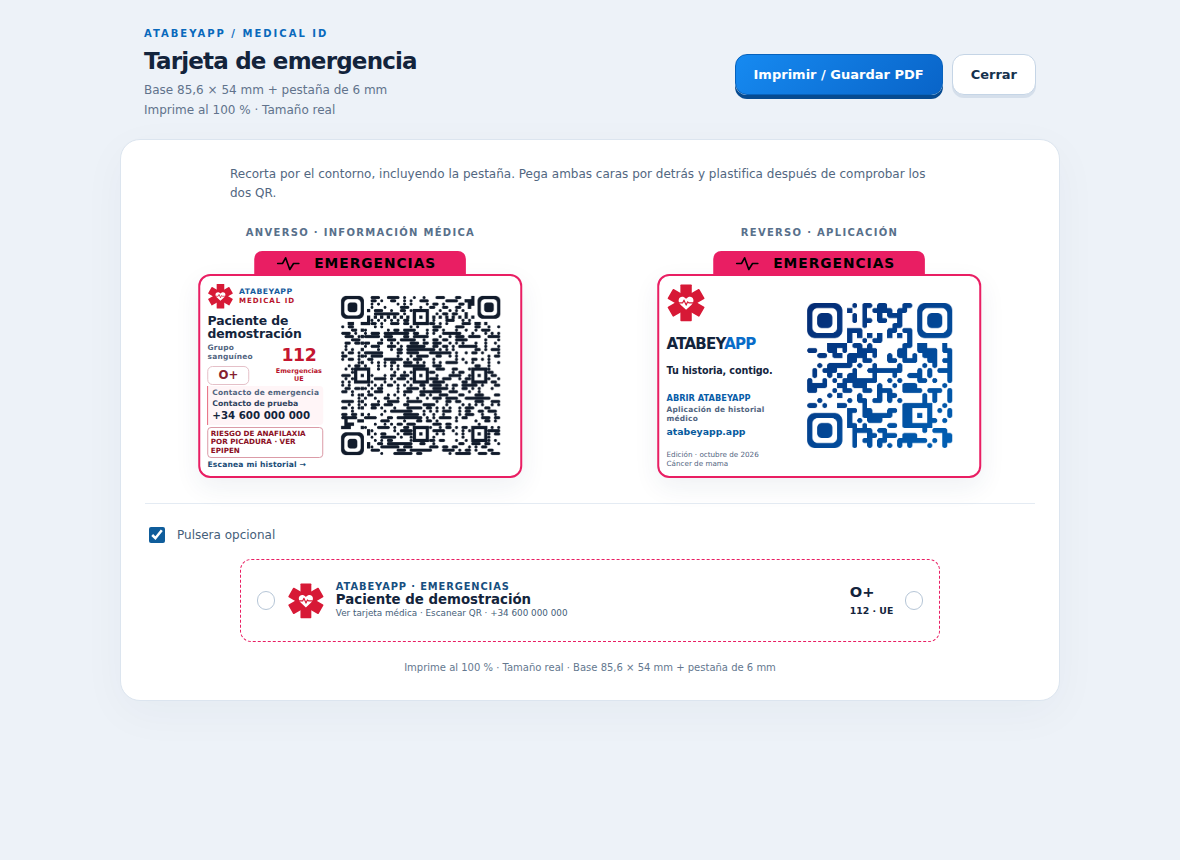
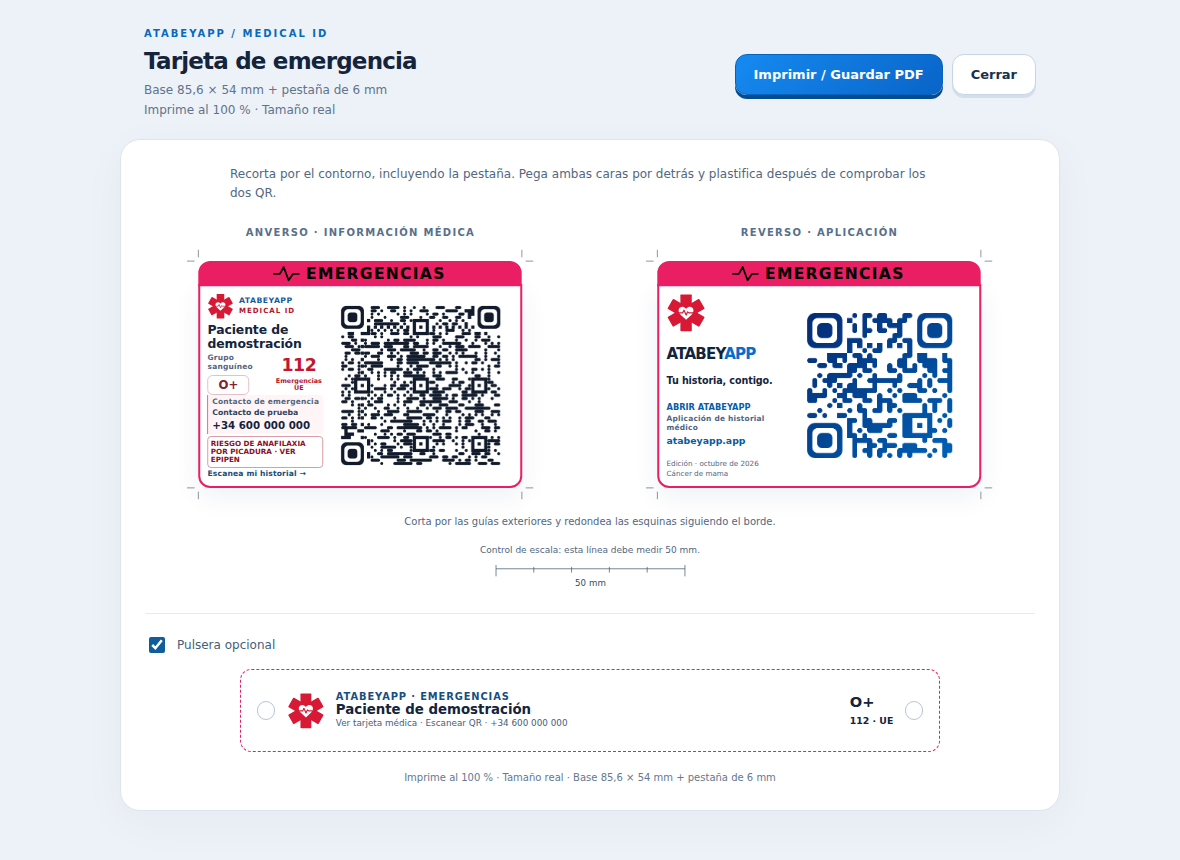
feat: ampliar cabecera y añadir guias de corte a la tarjeta
La franja de emergencias ocupa los 85,6 mm de ancho, con 6 mm de saliente. Añade marcas exteriores de corte y control de escala de 50 mm. Mantiene ambos QR de 49 mm, colores mensuales, simbolos rojos, datos y controles de cuenta. Cache instalada v27.

Validado con 65 pruebas, lectura del PDF a 300 ppp, dieciseis marcas de corte visibles, once idiomas, doce colores, cambios de cuenta durante impresion y generacion instalada sin red. Solo datos ficticios.

diff --git a/js/emergency-card.js b/js/emergency-card.js
@@ -31,8 +31,23 @@
   const medicalBadge = '<svg class="medical-badge" viewBox="0 0 40 40" aria-hidden="true"><g fill="#d71936"><rect class="badge-field" x="14.25" y="1.5" width="11.5" height="37" rx=".8"/><rect x="14.25" y="1.5" width="11.5" height="37" rx=".8" transform="rotate(60 20 20)"/><rect x="14.25" y="1.5" width="11.5" height="37" rx=".8" transform="rotate(120 20 20)"/></g><path d="M20 16c-4.8-5.6-10.8.8-5.3 6.1L20 27l5.3-4.9c5.5-5.3-.5-11.7-5.3-6.1Z" fill="#fff"/><path d="M13.2 20h3.4l1.3-2.7 2.2 5 1.5-3.3 1.2 1h4" fill="none" stroke="#d71936" stroke-width="1.2" stroke-linecap="round" stroke-linejoin="round"/></svg>';
 
   function tab(t) {
-    return `<svg class="card-tab" viewBox="0 0 56 6.4" aria-label="EMERGENCIAS"><path d="M0 6.4V2.1A2.1 2.1 0 0 1 2.1 0h51.8A2.1 2.1 0 0 1 56 2.1v4.3Z" fill="${t.color}"/><path d="M6.2 3.3h1.3l.8-1.5 1.1 3.1 1-1.6h1.4" fill="none" stroke="${t.ink}" stroke-width=".43" stroke-linecap="round" stroke-linejoin="round"/><text x="32" y="4.42" text-anchor="middle" fill="${t.ink}" font-family="Arial,Helvetica,sans-serif" font-weight="900" font-size="3.65" letter-spacing=".26">EMERGENCIAS</text></svg>`;
+    return `<svg class="card-tab" viewBox="0 0 85.6 6.65" aria-label="EMERGENCIAS"><path d="M0 6.65V3.18A3.18 3.18 0 0 1 3.18 0h79.24a3.18 3.18 0 0 1 3.18 3.18v3.47Z" fill="${t.color}"/><path d="M20 3.4h1.6l1-1.8 1.3 3.5 1.2-1.7h1.5" fill="none" stroke="${t.ink}" stroke-width=".47" stroke-linecap="round" stroke-linejoin="round"/><text x="47" y="4.65" text-anchor="middle" fill="${t.ink}" font-family="Arial,Helvetica,sans-serif" font-weight="900" font-size="4.1" letter-spacing=".35">EMERGENCIAS</text></svg>`;
   }
+  // Registration marks stay 1 mm away from the final card edge; only the scrap carries ink.
+  const cutMarks = '<svg class="cut-marks" viewBox="0 0 93.6 68" aria-hidden="true"><path d="M1 4H3M90.6 4H92.6M1 64H3M90.6 64H92.6M4 1V3M89.6 1V3M4 65V67M89.6 65V67" fill="none" stroke="#596777" stroke-width=".18"/></svg>';
+  const printHints = {
+    es:['Corta por las guías exteriores y redondea las esquinas siguiendo el borde.','Control de escala: esta línea debe medir 50 mm.'],
+    en:['Cut at the outer crop marks, then round the corners along the outline.','Scale check: this line must measure 50 mm.'],
+    fr:['Découpez aux repères extérieurs, puis arrondissez les angles en suivant le contour.','Contrôle d’échelle : cette ligne doit mesurer 50 mm.'],
+    de:['An den äußeren Schnittmarken schneiden und die Ecken entlang des Randes abrunden.','Maßstab prüfen: Diese Linie muss 50 mm lang sein.'],
+    pt:['Corte pelas marcas exteriores e arredonde os cantos seguindo o contorno.','Verificação de escala: esta linha deve medir 50 mm.'],
+    eu:['Ebaki kanpoko markei jarraituz eta biribildu izkinak ertzari jarraituz.','Eskala egiaztatzea: lerro honek 50 mm neurtu behar ditu.'],
+    hi:['बाहरी कटाई चिह्नों के अनुसार काटें और किनारे के साथ कोनों को गोल करें।','पैमाना जाँचें: यह रेखा 50 मिमी लंबी होनी चाहिए।'],
+    zh:['沿外侧裁切标记剪裁，并沿边缘修圆四角。','比例检查：此线应长 50 毫米。'],
+    ru:['Вырежьте по внешним меткам и скруглите углы по контуру.','Проверка масштаба: длина этой линии должна составлять 50 мм.'],
+    ja:['外側の裁断マークに沿って切り、輪郭に沿って角を丸くしてください。','縮尺確認：この線の長さは 50 mm です。'],
+    ar:['قصّ حسب علامات القص الخارجية ودوّر الزوايا باتباع الحواف.','للتحقق من المقياس: يجب أن يكون طول هذا الخط 50 مم.']
+  };
   async function imageFor(draw,url,style,blue) {
     const target=document.createElement('div');
     draw(target,{text:url,visualStyle:style,width:960,height:960,colorDark:'#111b2b',colorLight:'#ffffff',correctLevel:QRCode.CorrectLevel.H});
@@ -54,14 +69,14 @@
     ctx.putImageData(pixels,0,0);return canvas.toDataURL('image/png');
   }
   function documentHTML({profile,patientImage,appImage,date,language,risk}) {
-    const lang=words[language]?language:'es',w=words[lang],t=theme(date),rtl=lang==='ar',name=[profile.nombre,profile.apellidos].filter(Boolean).join(' '),blood=profile.sangre||'';
+    const lang=words[language]?language:'es',w=words[lang],hints=printHints[lang],t=theme(date),rtl=lang==='ar',name=[profile.nombre,profile.apellidos].filter(Boolean).join(' '),blood=profile.sangre||'';
     const phone=[profile.ec1_phone_prefix,profile.ec1_phone_num].filter(Boolean).join(' ');
     const edition=new Intl.DateTimeFormat(lang,{month:'long',year:'numeric'}).format(date);
     return `<!doctype html><html lang="${lang}" dir="${rtl?'rtl':'ltr'}"><head><meta charset="utf-8"><meta name="viewport" content="width=device-width,initial-scale=1"><meta name="referrer" content="no-referrer"><title>ATABEYAPP · ${esc(w[0])} · ${esc(name)}</title><style>
-*{box-sizing:border-box}body{margin:0;color:#13243c;background:#edf2f8;font-family:Arial,Helvetica,system-ui,sans-serif}button,input{font:inherit}.toolbar{display:flex;justify-content:space-between;gap:16px;align-items:center;flex-wrap:wrap;max-width:940px;margin:0 auto;padding:28px 24px 18px}.toolbar h1{font-size:23px;letter-spacing:-.8px;margin:0 0 6px;font-weight:850}.eyebrow{font-size:10px;font-weight:800;letter-spacing:2px;color:#0969bc;margin-bottom:9px}.toolbar p{font-size:12px;color:#61738c;margin:0;line-height:1.7}.actions{display:flex;gap:9px;flex-wrap:wrap}.actions button{border:1px solid #c5d5e6;background:#fff;color:#15314d;border-radius:12px;padding:12px 18px;font-size:13px;font-weight:750;cursor:pointer;box-shadow:0 3px 0 #d5dfeb}.actions .primary{background:linear-gradient(135deg,#168af1,#0964c8);color:#fff;border-color:#0762bc;box-shadow:0 4px 0 #064b91}.actions button:active{transform:translateY(2px);box-shadow:none}.actions button:disabled{opacity:.5;cursor:wait}.sheet{max-width:940px;margin:0 auto 36px;padding:25px 24px;background:#fff;border:1px solid #dce5ef;border-radius:20px;box-shadow:0 12px 45px #1436560a}.sheet-note{font-size:12px;line-height:1.6;max-width:720px;margin:0 auto 24px;color:#526781}.faces{display:grid;grid-template-columns:repeat(2,minmax(0,1fr));gap:22px 28px}.face-block{min-width:0}.face-label{font-size:10px;letter-spacing:1.3px;font-weight:800;text-transform:uppercase;color:#58708b;margin:0 0 13px;text-align:center}.face-host{position:relative;max-width:100%;margin:0 auto;height:60mm;width:85.6mm}.medical-card{position:absolute;left:50%;top:0;transform:translateX(-50%) scale(var(--card-scale,1));transform-origin:top center;width:85.6mm;height:60mm;direction:ltr;color:#13243c}.card-tab{position:absolute;top:0;left:14.8mm;width:56mm;height:6.4mm;z-index:2;overflow:visible}.card-body{position:absolute;top:6mm;left:0;width:85.6mm;height:54mm;border:.65mm solid ${t.color};border-radius:3.18mm;background:#fff;box-shadow:0 9px 26px #1a3e6312;display:grid;grid-template-columns:minmax(0,1fr) 49mm;gap:1.3mm;padding:1.8mm;align-items:center}.card-details{display:flex;flex-direction:column;justify-content:space-between;height:49mm;min-width:0;direction:${rtl?'rtl':'ltr'}}.identity-brand{display:flex;align-items:center;gap:1.3mm;font-size:5.8pt;letter-spacing:.5px;font-weight:850;color:#155a9c;direction:ltr}.medical-badge{display:block;flex-shrink:0;width:7mm;height:7mm}.card-details>*{flex-shrink:0}.identity-brand span{line-height:1.25}.identity-brand small{font-size:5.3pt;letter-spacing:1px;color:#b7132b}.clinical-summary{display:flex;align-items:center;justify-content:space-between;gap:1mm}.contact-panel{border-inline-start:.5mm solid #d71936;border-radius:0 1mm 1mm 0;background:#fff5f7;padding:.8mm 1mm;min-width:0}.contact-name{white-space:nowrap;overflow:hidden;text-overflow:ellipsis;font-size:5.8pt;font-weight:700;line-height:1.1;color:#31445e;overflow-wrap:anywhere;margin-bottom:.5mm}.patient-name{font-size:10.1pt;line-height:1.07;font-weight:850;letter-spacing:-.1px;overflow-wrap:anywhere;margin:1mm 0;max-height:17mm}.detail-label{font-size:5.6pt;line-height:1.2;color:#52657f;font-weight:750;letter-spacing:.2px;margin-bottom:.55mm}.blood{display:inline-block;font-size:8.8pt;font-weight:900;line-height:1.1;color:#851f30;border:1px solid #e5c0c8;border-radius:1.4mm;padding:.65mm 1.5mm;min-width:11mm;text-align:center;direction:ltr}.contact-phone{font-size:7.7pt;line-height:1.15;font-weight:850;direction:ltr;unicode-bidi:isolate;overflow-wrap:anywhere}.emergency-call{display:flex;flex-direction:column;align-items:center;gap:.5mm;font-size:4.8pt;color:#b7132b;font-weight:750;line-height:1.15;max-width:13mm;text-align:center}.emergency-call strong{font-size:13pt;letter-spacing:-.5px;color:#c41630;direction:ltr}.medical-symbol{width:49mm;height:49mm;display:block}.qr-column{direction:ltr;text-align:center}.qr-caption{font-size:5.7pt;line-height:1.05;margin-top:.6mm;color:#204d77;font-weight:800;letter-spacing:.15px}.risk{font-size:5.4pt;font-weight:850;line-height:1.15;color:#8b1024;border:1px solid #db9ba7;border-radius:1mm;padding:.6mm;margin-top:.5mm;overflow-wrap:anywhere}.back .card-body{grid-template-columns:minmax(0,1fr) 49mm;gap:.7mm}.back .card-details{justify-content:space-between}.back .medical-badge{width:10.5mm;height:10.5mm}.wordmark{font-size:11.3pt;font-weight:900;letter-spacing:-.8px;line-height:1.1;direction:ltr}.wordmark span{color:#086cc9}.tagline{font-size:7.2pt;line-height:1.2;font-weight:750;letter-spacing:-.1px}.open-app{color:#085da8;font-weight:850;font-size:6.2pt;line-height:1.2;margin-top:1mm}.app-site{font-size:7pt;color:#075b9e;font-weight:800;direction:ltr}.edition{font-size:5.4pt;line-height:1.3;color:#52657f;overflow-wrap:anywhere}.app-symbol{width:49mm;height:49mm;display:block}.band-settings{margin-top:25px;border-top:1px solid #e4ebf3;padding-top:20px;font-size:12px;color:#455e79;display:flex;gap:9px;align-items:center}.band-settings input{accent-color:#147cce;width:16px;height:16px}.band-section{margin-top:13px}.band-host{width:100%;overflow:hidden}.brace{height:22mm;width:185mm;border:.4mm dashed ${t.color};border-radius:3mm;display:flex;gap:3mm;align-items:center;padding:2.5mm 4mm;direction:ltr;margin:0 auto;color:#13243c;transform-origin:top left}.brace .medical-badge{width:10mm;height:10mm}.brace-details{min-width:0;flex:1;direction:${rtl?'rtl':'ltr'}}.brace-title{font-size:7.4pt;font-weight:900;letter-spacing:.9px;color:#174f80}.brace-name{font-size:10pt;line-height:1.2;font-weight:850;overflow-wrap:anywhere}.brace-help{font-size:6.6pt;color:#455e79;line-height:1.3}.brace-meta{font-size:11pt;font-weight:900;white-space:nowrap;direction:ltr}.grommet{border:.3mm solid #b6c6d7;width:5mm;height:5mm;border-radius:50%;flex-shrink:0}.bottom-note{font-size:10px;line-height:1.5;color:#64788f;text-align:center;margin:18px 0 0}.cut-guide{display:none}.muted{color:#6b8099}body[data-card-error]{display:grid;min-height:90vh;place-content:center;padding:28px;text-align:center;background:#edf2f8}body[data-card-error] p{max-width:500px;line-height:1.6}
+*{box-sizing:border-box}body{margin:0;color:#13243c;background:#edf2f8;font-family:Arial,Helvetica,system-ui,sans-serif}button,input{font:inherit}.toolbar{display:flex;justify-content:space-between;gap:16px;align-items:center;flex-wrap:wrap;max-width:940px;margin:0 auto;padding:28px 24px 18px}.toolbar h1{font-size:23px;letter-spacing:-.8px;margin:0 0 6px;font-weight:850}.eyebrow{font-size:10px;font-weight:800;letter-spacing:2px;color:#0969bc;margin-bottom:9px}.toolbar p{font-size:12px;color:#61738c;margin:0;line-height:1.7}.actions{display:flex;gap:9px;flex-wrap:wrap}.actions button{border:1px solid #c5d5e6;background:#fff;color:#15314d;border-radius:12px;padding:12px 18px;font-size:13px;font-weight:750;cursor:pointer;box-shadow:0 3px 0 #d5dfeb}.actions .primary{background:linear-gradient(135deg,#168af1,#0964c8);color:#fff;border-color:#0762bc;box-shadow:0 4px 0 #064b91}.actions button:active{transform:translateY(2px);box-shadow:none}.actions button:disabled{opacity:.5;cursor:wait}.sheet{max-width:940px;margin:0 auto 36px;padding:25px 24px;background:#fff;border:1px solid #dce5ef;border-radius:20px;box-shadow:0 12px 45px #1436560a}.sheet-note{font-size:12px;line-height:1.6;max-width:720px;margin:0 auto 24px;color:#526781}.faces{display:grid;grid-template-columns:repeat(2,minmax(0,1fr));gap:22px 28px}.face-block{min-width:0}.face-label{font-size:10px;letter-spacing:1.3px;font-weight:800;text-transform:uppercase;color:#58708b;margin:0 0 6mm;text-align:center}.face-host{position:relative;max-width:100%;margin:0 auto;height:60mm;width:85.6mm}.medical-card{position:absolute;left:50%;top:0;transform:translateX(-50%) scale(var(--card-scale,1));transform-origin:top center;width:85.6mm;height:60mm;direction:ltr;color:#13243c}.card-tab{position:absolute;top:0;left:0;width:85.6mm;height:6.65mm;z-index:2;overflow:visible}.card-body{position:absolute;top:6mm;left:0;width:85.6mm;height:54mm;border:.65mm solid ${t.color};border-radius:0 0 3.18mm 3.18mm;background:#fff;box-shadow:0 9px 26px #1a3e6312;display:grid;grid-template-columns:minmax(0,1fr) 49mm;gap:1.3mm;padding:1.8mm;align-items:center}.card-details{display:flex;flex-direction:column;justify-content:space-between;height:49mm;min-width:0;direction:${rtl?'rtl':'ltr'}}.identity-brand{display:flex;align-items:center;gap:1.3mm;font-size:5.8pt;letter-spacing:.5px;font-weight:850;color:#155a9c;direction:ltr}.medical-badge{display:block;flex-shrink:0;width:7mm;height:7mm}.card-details>*{flex-shrink:0}.identity-brand span{line-height:1.25}.identity-brand small{font-size:5.3pt;letter-spacing:1px;color:#b7132b}.clinical-summary{display:flex;align-items:center;justify-content:space-between;gap:1mm}.contact-panel{border-inline-start:.5mm solid #d71936;border-radius:0 1mm 1mm 0;background:#fff5f7;padding:.8mm 1mm;min-width:0}.contact-name{white-space:nowrap;overflow:hidden;text-overflow:ellipsis;font-size:5.8pt;font-weight:700;line-height:1.1;color:#31445e;overflow-wrap:anywhere;margin-bottom:.5mm}.patient-name{font-size:10.1pt;line-height:1.07;font-weight:850;letter-spacing:-.1px;overflow-wrap:anywhere;margin:1mm 0;max-height:17mm}.detail-label{font-size:5.6pt;line-height:1.2;color:#52657f;font-weight:750;letter-spacing:.2px;margin-bottom:.55mm}.blood{display:inline-block;font-size:8.8pt;font-weight:900;line-height:1.1;color:#851f30;border:1px solid #e5c0c8;border-radius:1.4mm;padding:.65mm 1.5mm;min-width:11mm;text-align:center;direction:ltr}.contact-phone{font-size:7.7pt;line-height:1.15;font-weight:850;direction:ltr;unicode-bidi:isolate;overflow-wrap:anywhere}.emergency-call{display:flex;flex-direction:column;align-items:center;gap:.5mm;font-size:4.8pt;color:#b7132b;font-weight:750;line-height:1.15;max-width:13mm;text-align:center}.emergency-call strong{font-size:13pt;letter-spacing:-.5px;color:#c41630;direction:ltr}.medical-symbol{width:49mm;height:49mm;display:block}.qr-column{direction:ltr;text-align:center}.qr-caption{font-size:5.7pt;line-height:1.05;margin-top:.6mm;color:#204d77;font-weight:800;letter-spacing:.15px}.risk{font-size:5.4pt;font-weight:850;line-height:1.15;color:#8b1024;border:1px solid #db9ba7;border-radius:1mm;padding:.6mm;margin-top:.5mm;overflow-wrap:anywhere}.back .card-body{grid-template-columns:minmax(0,1fr) 49mm;gap:.7mm}.back .card-details{justify-content:space-between}.back .medical-badge{width:10.5mm;height:10.5mm}.wordmark{font-size:11.3pt;font-weight:900;letter-spacing:-.8px;line-height:1.1;direction:ltr}.wordmark span{color:#086cc9}.tagline{font-size:7.2pt;line-height:1.2;font-weight:750;letter-spacing:-.1px}.open-app{color:#085da8;font-weight:850;font-size:6.2pt;line-height:1.2;margin-top:1mm}.app-site{font-size:7pt;color:#075b9e;font-weight:800;direction:ltr}.edition{font-size:5.4pt;line-height:1.3;color:#52657f;overflow-wrap:anywhere}.app-symbol{width:49mm;height:49mm;display:block}.band-settings{margin-top:25px;border-top:1px solid #e4ebf3;padding-top:20px;font-size:12px;color:#455e79;display:flex;gap:9px;align-items:center}.band-settings input{accent-color:#147cce;width:16px;height:16px}.band-section{margin-top:13px}.band-host{width:100%;overflow:hidden}.brace{height:22mm;width:185mm;border:.4mm dashed ${t.color};border-radius:3mm;display:flex;gap:3mm;align-items:center;padding:2.5mm 4mm;direction:ltr;margin:0 auto;color:#13243c;transform-origin:top left}.brace .medical-badge{width:10mm;height:10mm}.brace-details{min-width:0;flex:1;direction:${rtl?'rtl':'ltr'}}.brace-title{font-size:7.4pt;font-weight:900;letter-spacing:.9px;color:#174f80}.brace-name{font-size:10pt;line-height:1.2;font-weight:850;overflow-wrap:anywhere}.brace-help{font-size:6.6pt;color:#455e79;line-height:1.3}.brace-meta{font-size:11pt;font-weight:900;white-space:nowrap;direction:ltr}.grommet{border:.3mm solid #b6c6d7;width:5mm;height:5mm;border-radius:50%;flex-shrink:0}.bottom-note{font-size:10px;line-height:1.5;color:#64788f;text-align:center;margin:18px 0 0}.cut-marks{position:absolute;left:-4mm;top:-4mm;width:93.6mm;height:68mm;overflow:visible;pointer-events:none}.cut-guide{font-size:10px;line-height:1.5;color:#526781;text-align:center;margin:7mm 0 0}.scale-check{margin:4mm auto 0;text-align:center;font-size:9px;line-height:1.5;color:#526781}.scale-check svg{display:block;width:50mm;height:6mm;margin:2mm auto 0;overflow:visible;direction:ltr}.muted{color:#6b8099}body[data-card-error]{display:grid;min-height:90vh;place-content:center;padding:28px;text-align:center;background:#edf2f8}body[data-card-error] p{max-width:500px;line-height:1.6}
 @media screen and (max-width:760px){.faces{grid-template-columns:1fr;gap:28px}.toolbar{padding:20px 16px 16px}.toolbar h1{font-size:21px}.sheet{margin:0 10px 22px;padding:20px 12px;border-radius:16px}.sheet-note{font-size:11px}.actions{width:100%}.actions button{flex:1}.face-label{font-size:9px}.band-settings{margin-top:22px}}
-@page{size:A4 portrait;margin:12mm}@media print{html,body{margin:0;padding:0;background:#fff;color:#13243c;print-color-adjust:exact;-webkit-print-color-adjust:exact}.toolbar,.sheet-note,.band-settings,.bottom-note{display:none!important}.sheet{width:186mm;max-width:none;padding:0;margin:0;border:0;border-radius:0;box-shadow:none}.faces{display:grid;grid-template-columns:85.6mm 85.6mm;gap:12mm;justify-content:center;break-inside:avoid}.face-label{font-size:6.2pt;margin:0 0 3mm;color:#52657f}.face-host{width:85.6mm!important;height:60mm!important;max-width:none}.medical-card{position:relative;left:0;transform:none!important}.card-body{box-shadow:none}.band-section{margin-top:12mm;break-inside:avoid}.band-host{width:185mm;height:22mm!important;overflow:visible}.brace{transform:none!important}.cut-guide{display:block;font-size:6pt;line-height:1.5;color:#65758a;text-align:center;margin:5mm 0 0}.sheet[dir=rtl] .faces{direction:rtl}}
-</style></head><body><header class="toolbar"><div><div class="eyebrow">ATABEYAPP / MEDICAL ID</div><h1>${esc(w[0])}</h1><p>${esc(w[21])}<br>${esc(w[14])}</p></div><div class="actions"><button class="primary" id="card-print" type="button">${esc(w[3])}</button><button id="card-close" type="button">${esc(w[4])}</button></div></header><main class="sheet" dir="${rtl?'rtl':'ltr'}"><p class="sheet-note">${esc(w[13])}</p><div class="faces"><section class="face-block"><h2 class="face-label">${esc(w[1])}</h2><div class="face-host"><article class="medical-card front" aria-label="${esc(w[1])}">${tab(t)}<div class="card-body"><div class="card-details"><div class="identity-brand">${medicalBadge}<span>ATABEYAPP<br><small>MEDICAL ID</small></span></div><div class="patient-name">${esc(name)}</div><div class="clinical-summary">${blood?`<div><div class="detail-label">${esc(w[5])}</div><div class="blood">${esc(blood)}</div></div>`:''}<div class="emergency-call"><strong>112</strong><span>${esc(w[7])}</span></div></div>${phone?`<div class="contact-panel"><div class="detail-label">${esc(w[6])}</div>${profile.ec1_name?`<div class="contact-name">${esc(profile.ec1_name)}</div>`:''}<div class="contact-phone">${esc(phone)}</div></div>`:''}${risk?`<div class="risk">${esc(w[19])}</div>`:''}<div class="qr-caption">${esc(w[8])} →</div></div><div class="qr-column"><img class="medical-symbol" id="qcf" alt="${esc(w[8])}" src="${patientImage}"></div></div></article></div></section><section class="face-block"><h2 class="face-label">${esc(w[2])}</h2><div class="face-host"><article class="medical-card back" aria-label="${esc(w[2])}">${tab(t)}<div class="card-body"><div class="card-details">${medicalBadge}<div class="wordmark">ATABEY<span>APP</span></div><div class="tagline">${esc(w[9])}</div><div><div class="open-app">${esc(w[10])}</div><div class="detail-label" style="margin-top:.6mm">${esc(w[11])}</div><div class="app-site">atabeyapp.app</div></div><div class="edition">${esc(w[20])} · ${esc(edition)}<br>${esc(t.cause)}</div></div><img class="app-symbol" id="qcb" alt="${esc(w[10])}" src="${appImage}"></div></article></div></section></div><p class="cut-guide">${esc(w[14])} · ${esc(w[21])}</p><label class="band-settings"><input type="checkbox" id="include-band" checked>${esc(w[12])}</label><section class="band-section" id="card-band"><div class="band-host"><div class="brace"><div class="grommet"></div>${medicalBadge}<div class="brace-details"><div class="brace-title">ATABEYAPP · EMERGENCIAS</div><div class="brace-name">${esc(name)}</div><div class="brace-help">${esc(w[18])}${phone?' · '+esc(phone):''}</div></div><div class="brace-meta">${esc(blood)}<br><span style="font-size:7pt">112 · UE</span></div><div class="grommet"></div></div></div></section><p class="bottom-note">${esc(w[14])} · ${esc(w[21])}</p></main></body></html>`;
+@page{size:A4 portrait;margin:12mm}@media print{html,body{margin:0;padding:0;background:#fff;color:#13243c;print-color-adjust:exact;-webkit-print-color-adjust:exact}.toolbar,.sheet-note,.band-settings,.bottom-note{display:none!important}.sheet{width:186mm;max-width:none;padding:0;margin:0;border:0;border-radius:0;box-shadow:none}.faces{display:grid;grid-template-columns:85.6mm 85.6mm;gap:8mm;justify-content:center;break-inside:avoid}.face-label{font-size:6.2pt;margin:0 0 6mm;color:#52657f}.face-host{width:85.6mm!important;height:60mm!important;max-width:none}.medical-card{position:relative;left:0;transform:none!important}.card-body{box-shadow:none}.band-section{margin-top:12mm;break-inside:avoid}.band-host{width:185mm;height:22mm!important;overflow:visible}.brace{transform:none!important}.cut-guide{font-size:6pt;margin:7mm 0 0}.scale-check{font-size:6pt;break-inside:avoid}.sheet[dir=rtl] .faces{direction:rtl}}
+</style></head><body><header class="toolbar"><div><div class="eyebrow">ATABEYAPP / MEDICAL ID</div><h1>${esc(w[0])}</h1><p>${esc(w[21])}<br>${esc(w[14])}</p></div><div class="actions"><button class="primary" id="card-print" type="button">${esc(w[3])}</button><button id="card-close" type="button">${esc(w[4])}</button></div></header><main class="sheet" dir="${rtl?'rtl':'ltr'}"><p class="sheet-note">${esc(w[13])}</p><div class="faces"><section class="face-block"><h2 class="face-label">${esc(w[1])}</h2><div class="face-host"><article class="medical-card front" aria-label="${esc(w[1])}">${tab(t)}${cutMarks}<div class="card-body"><div class="card-details"><div class="identity-brand">${medicalBadge}<span>ATABEYAPP<br><small>MEDICAL ID</small></span></div><div class="patient-name">${esc(name)}</div><div class="clinical-summary">${blood?`<div><div class="detail-label">${esc(w[5])}</div><div class="blood">${esc(blood)}</div></div>`:''}<div class="emergency-call"><strong>112</strong><span>${esc(w[7])}</span></div></div>${phone?`<div class="contact-panel"><div class="detail-label">${esc(w[6])}</div>${profile.ec1_name?`<div class="contact-name">${esc(profile.ec1_name)}</div>`:''}<div class="contact-phone">${esc(phone)}</div></div>`:''}${risk?`<div class="risk">${esc(w[19])}</div>`:''}<div class="qr-caption">${esc(w[8])} →</div></div><div class="qr-column"><img class="medical-symbol" id="qcf" alt="${esc(w[8])}" src="${patientImage}"></div></div></article></div></section><section class="face-block"><h2 class="face-label">${esc(w[2])}</h2><div class="face-host"><article class="medical-card back" aria-label="${esc(w[2])}">${tab(t)}${cutMarks}<div class="card-body"><div class="card-details">${medicalBadge}<div class="wordmark">ATABEY<span>APP</span></div><div class="tagline">${esc(w[9])}</div><div><div class="open-app">${esc(w[10])}</div><div class="detail-label" style="margin-top:.6mm">${esc(w[11])}</div><div class="app-site">atabeyapp.app</div></div><div class="edition">${esc(w[20])} · ${esc(edition)}<br>${esc(t.cause)}</div></div><img class="app-symbol" id="qcb" alt="${esc(w[10])}" src="${appImage}"></div></article></div></section></div><p class="cut-guide">${esc(hints[0])}</p><div class="scale-check"><span>${esc(hints[1])}</span><svg id="print-scale" viewBox="0 0 50 6" aria-label="50 mm"><path d="M0 1H50M0 0V3M10 .5V2M20 .5V2M30 .5V2M40 .5V2M50 0V3" fill="none" stroke="#384c64" stroke-width=".18"/><text x="25" y="5.5" fill="#384c64" text-anchor="middle" font-family="Arial,Helvetica,sans-serif" font-size="2.3">50 mm</text></svg></div><label class="band-settings"><input type="checkbox" id="include-band" checked>${esc(w[12])}</label><section class="band-section" id="card-band"><div class="band-host"><div class="brace"><div class="grommet"></div>${medicalBadge}<div class="brace-details"><div class="brace-title">ATABEYAPP · EMERGENCIAS</div><div class="brace-name">${esc(name)}</div><div class="brace-help">${esc(w[18])}${phone?' · '+esc(phone):''}</div></div><div class="brace-meta">${esc(blood)}<br><span style="font-size:7pt">112 · UE</span></div><div class="grommet"></div></div></div></section><p class="bottom-note">${esc(w[14])} · ${esc(w[21])}</p></main></body></html>`;
   }
   async function open(config) {
     const w=words[config.language]||words.es;

diff --git a/index.html b/index.html
@@ -24,7 +24,7 @@
        byte a byte del original, verificada contra este mismo hash. -->
   <script src="/vendor/qrcodejs/qrcode.min.js" integrity="sha384-3zSEDfvllQohrq0PHL1fOXJuC/jSOO34H46t6UQfobFOmxE5BpjjaIJY5F2/bMnU"></script>
   <script src="/vendor/lz-string/lz-string-1.4.4.min.js" integrity="sha384-+pWnyi8LtZx+cgXfD2arWgUX7pHIaEL215cEPPk9WrsegNlgvDL9DNjaqsceQq6o"></script>
-  <script src="/js/register-sw.js?v=26"></script>
+  <script src="/js/register-sw.js?v=27"></script>
   <script src="i18n/loader.js?v=14"></script>
   <style>
     /* ===== MENÚ HAMBURGUESA (Pantalla principal) ===== */
@@ -2551,7 +2551,7 @@
   <script src="js/validation.js?v=14"></script>
   <script src="js/search.js?v=12"></script>
   <script src="js/form.js?v=19"></script>
-  <script src="js/emergency-card.js?v=26"></script>
+  <script src="js/emergency-card.js?v=27"></script>
   <script src="js/qr-generator.js?v=25"></script>
 
   <!-- TOUR ONBOARDING + BOTÓN AYUDA -->

diff --git a/sw.js b/sw.js
@@ -16,7 +16,7 @@
 // v5: precarga la capa visual para conservarla al abrir la app sin red.
 // v6: actualiza el dibujo orgánico del QR, conservando sus datos.
 // v7: incluye la recuperación segura del autenticador.
-const CACHE_NAME = 'doctorqr-v26';
+const CACHE_NAME = 'doctorqr-v27';
 const CACHE_URLS = [
   '/',
   './index.html',
@@ -40,13 +40,13 @@ const CACHE_URLS = [
   './js/web-qr-preview.js?v=22',
   './js/totp-recovery.js?v=14',
   './js/qr-generator.js?v=25',
-  './js/emergency-card.js?v=26',
+  './js/emergency-card.js?v=27',
   './js/medical-owner.js?v=24',
   './js/birthdate.js?v=14',
   './js/profile-sync.js?v=24',
   './js/form.js?v=19',
   './js/form-accessibility.js?v=12.1',
-  './js/register-sw.js?v=26',
+  './js/register-sw.js?v=27',
   './js/web-session.js?v=24',
   './js/web-link.js?v=15',
   './js/web-link.js?v=18',

diff --git a/emergencia.html b/emergencia.html
@@ -40,7 +40,7 @@
        (renderEmergencyQuickView(), en js/qr-generator.js) -->
   <div id="emergency-quick-view" style="display:none"></div>
 
-  <script src="js/emergency-card.js?v=26"></script>
+  <script src="js/emergency-card.js?v=27"></script>
   <script src="js/qr-generator.js?v=25"></script>
   <script>
     // handleEmergencyQuickAccess() vive en js/qr-generator.js, compartida

diff --git a/login.html b/login.html
@@ -845,7 +845,7 @@
      (renderEmergencyQuickView(), en js/qr-generator.js) -->
 <div id="emergency-quick-view" style="display:none"></div>
 
-<script src="js/emergency-card.js?v=26"></script>
+<script src="js/emergency-card.js?v=27"></script>
 <script src="js/qr-generator.js?v=25"></script>
 <script>
 const API = 'https://doctorqr-backend-production.up.railway.app';

diff --git a/docs/TARJETA-EMERGENCIA-2026.md b/docs/TARJETA-EMERGENCIA-2026.md
@@ -5,11 +5,13 @@ El botón «Imprimir QR emergencia — formato tarjeta» mantiene su ubicación 
 ## Diseño y medidas
 
 - Cuerpo de cada cara: **85,6 × 54 mm**, esquinas redondeadas, fondo blanco y borde de **0,65 mm** en el mismo color conmemorativo de la pestaña.
-- Pestaña superior centrada: **56 mm de ancho y 6 mm de saliente**, con «EMERGENCIAS» y una señal gráfica de pulso. El texto cambia entre negro y blanco para conservar contraste con los doce colores mensuales ya existentes. La ilustración solapa 0,4 mm con el borde superior del cuerpo; el alto total es 60 mm.
+- Pestaña superior de extremo a extremo: **85,6 mm de ancho y 6 mm de saliente**, con «EMERGENCIAS» y una señal gráfica de pulso. El texto cambia entre negro y blanco para conservar contraste con los doce colores mensuales ya existentes. La ilustración solapa 0,65 mm con el borde superior del cuerpo; el alto total es 60 mm.
 - **Ambas imágenes QR miden 49 × 49 mm**, incluyendo su margen blanco de lectura. El médico usa trazos horizontales redondeados y puntos, en tinta oscura. El de la aplicación usa formas conectadas y un degradado azul oscuro a azul. Los patrones de sincronización y alineación se conservan.
 - Anverso: nombre completo, grupo sanguíneo declarado y primer teléfono de emergencia con su nombre de contacto cuando están registrados, indicación de emergencias de la UE y la alerta de anafilaxia con el mismo criterio previo. El contacto está separado en un bloque con acento rojo y teléfono más visible; los nombres largos del contacto se abrevian visualmente con puntos suspensivos, conservándose íntegros en el historial; el grupo sanguíneo y el 112 ocupan una fila diferenciada. No se inventan datos ausentes.
 - Reverso: marca, acceso a la aplicación, mes/año y la temática mensual existente. El color conmemorativo se aplica a la pestaña y al borde de ambas caras, y al contorno de la pulsera opcional. No se añaden teléfonos o sitios de terceros.
 - Pictograma propio de emergencia: estrella de seis brazos con corazón y pulso, siempre **rojo `#d71936`** en ambas caras y en la pulsera. Su color es independiente del mes. Se conservan los nombres en texto; se retiran las imágenes del logo de estos documentos.
+- Marcas de corte exteriores en las cuatro esquinas de cada cara: ocho pequeños segmentos por cara, separados 1 mm del borde final. No invaden el color ni los márgenes blancos de los QR. Las esquinas se redondean siguiendo el contorno coloreado.
+- Línea de control impresa de **50 mm**, con marcas de escala, para comprobar con una regla que la impresión respeta el tamaño real. Las instrucciones de corte y escala están en los once idiomas de la aplicación.
 - Vista previa adaptable al móvil, controles de impresión/cierre y pulsera opcional conservada. Textos en los once idiomas de la aplicación, con dirección RTL para árabe.
 - Las dos caras y la pulsera caben en una hoja A4. **Imprimir al 100 %, tamaño real**, sin «ajustar a página». Recortar el contorno incluyendo la pestaña, unir ambas caras por detrás y plastificar después de verificar los QR.
 
@@ -21,7 +23,7 @@ El QR médico sigue usando exactamente `buildEmergencyQRUrl()`: `https://atabeya
 
 La nueva capa `js/emergency-card.js` recibe una instantánea validada por `MedicalOwner`. Antes y después de cada preparación asíncrona se comprueban la cuenta y la instantánea. Una sesión o perfil cambiado retira los datos y los QR de la vista de impresión. El documento escapa los textos del paciente, no incluye scripts y usa imágenes PNG embebidas: no consulta servicios ni almacenamiento del paciente.
 
-No se modifica el formulario, el lector clínico, las reglas de los ocho QR, los datos enviados a sus destinos, el backend, el cifrado, las credenciales, los planes ni los pagos. No se borran datos. La actualización instalada usa `doctorqr-v26` e incluye la nueva capa entre los recursos disponibles sin red.
+No se modifica el formulario, el lector clínico, las reglas de los ocho QR, los datos enviados a sus destinos, el backend, el cifrado, las credenciales, los planes ni los pagos. No se borran datos. La actualización instalada usa `doctorqr-v27` e incluye la nueva capa entre los recursos disponibles sin red.
 
 ## Verificación
 
@@ -30,10 +32,10 @@ Pruebas con identidades y respuestas ficticias exclusivamente:
 - 65 pruebas de aislamiento de cuentas, sincronización, lector y contrato QR.
 - Navegador con ocho vistas QR y caché vinculada al propietario; botón real de impresión, controles de pulsera, símbolos rojos en los doce meses, bordes coordinados con la pestaña, nombre del contacto, nombre largo y escape de HTML; ninguna escritura de almacenamiento ni solicitud de red externa.
 - Lectura de los dos QR desde sus PNG originales y desde capturas de la vista previa a 320, 390, 768 y 1180 px.
-- PDF de una sola página A4; comprobación de medidas y lectura de los dos QR desde la imagen del PDF a **300 ppp**, al tamaño real.
+- PDF de una sola página A4; dieciséis marcas de corte verificadas en la imagen impresa, sin recortes de página; ancho completo de cabecera, separación de su símbolo/texto, regla de 50 mm y comprobación de medidas y lectura de los dos QR desde la imagen del PDF a **300 ppp**, al tamaño real.
 - Doce colores mensuales y contraste del texto de la pestaña; once idiomas, RTL y ausencia de solapamientos con los QR.
 - Cambio de perfil con vista abierta y cambio de cuenta mientras se prepara: nunca se imprime el perfil anterior.
-- Formulario real con 124 respuestas, API cifrada y PostgreSQL de pruebas: ocho QR, contactos y datos clínicos completos; sincronización entre dispositivos y respuesta retrasada durante un cambio de cuenta.
+- Validación clínica de la revisión anterior, conservada sin cambios en esta revisión de impresión: formulario real con 124 respuestas, API cifrada y PostgreSQL de pruebas: ocho QR, contactos y datos clínicos completos; sincronización entre dispositivos y respuesta retrasada durante un cambio de cuenta.
 - Actualización desde una instalación antigua, conservación del borrador sin red y generación de las dos imágenes de impresión sin conexión.
 
 La captura `tarjeta-emergencia-demo.png` usa un identificador ficticio que no corresponde a un paciente. Es una muestra visual, no una tarjeta médica válida. Las pruebas digitales no sustituyen una comprobación con el papel, impresora, laminado y cámaras que se usarán finalmente; conservar el tamaño real y verificar ambos QR impresos.
